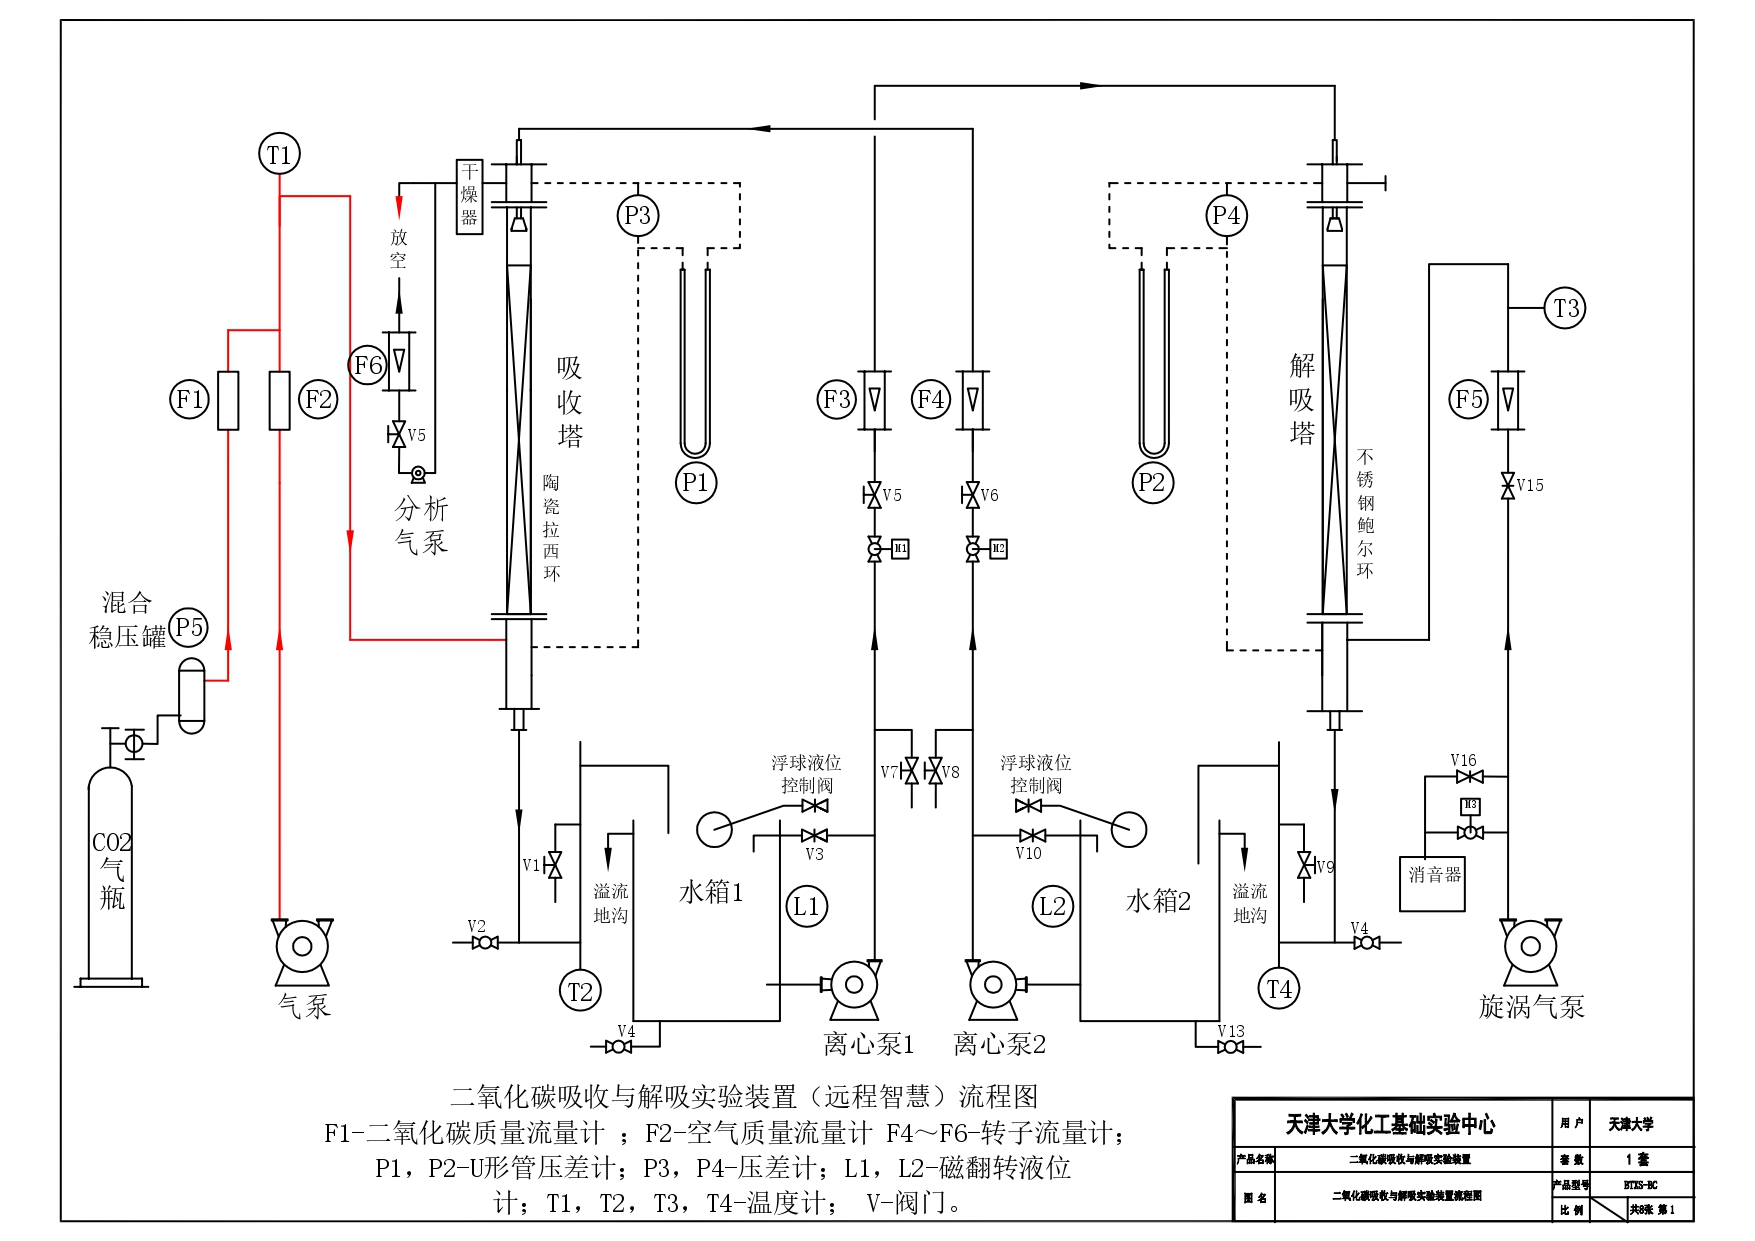
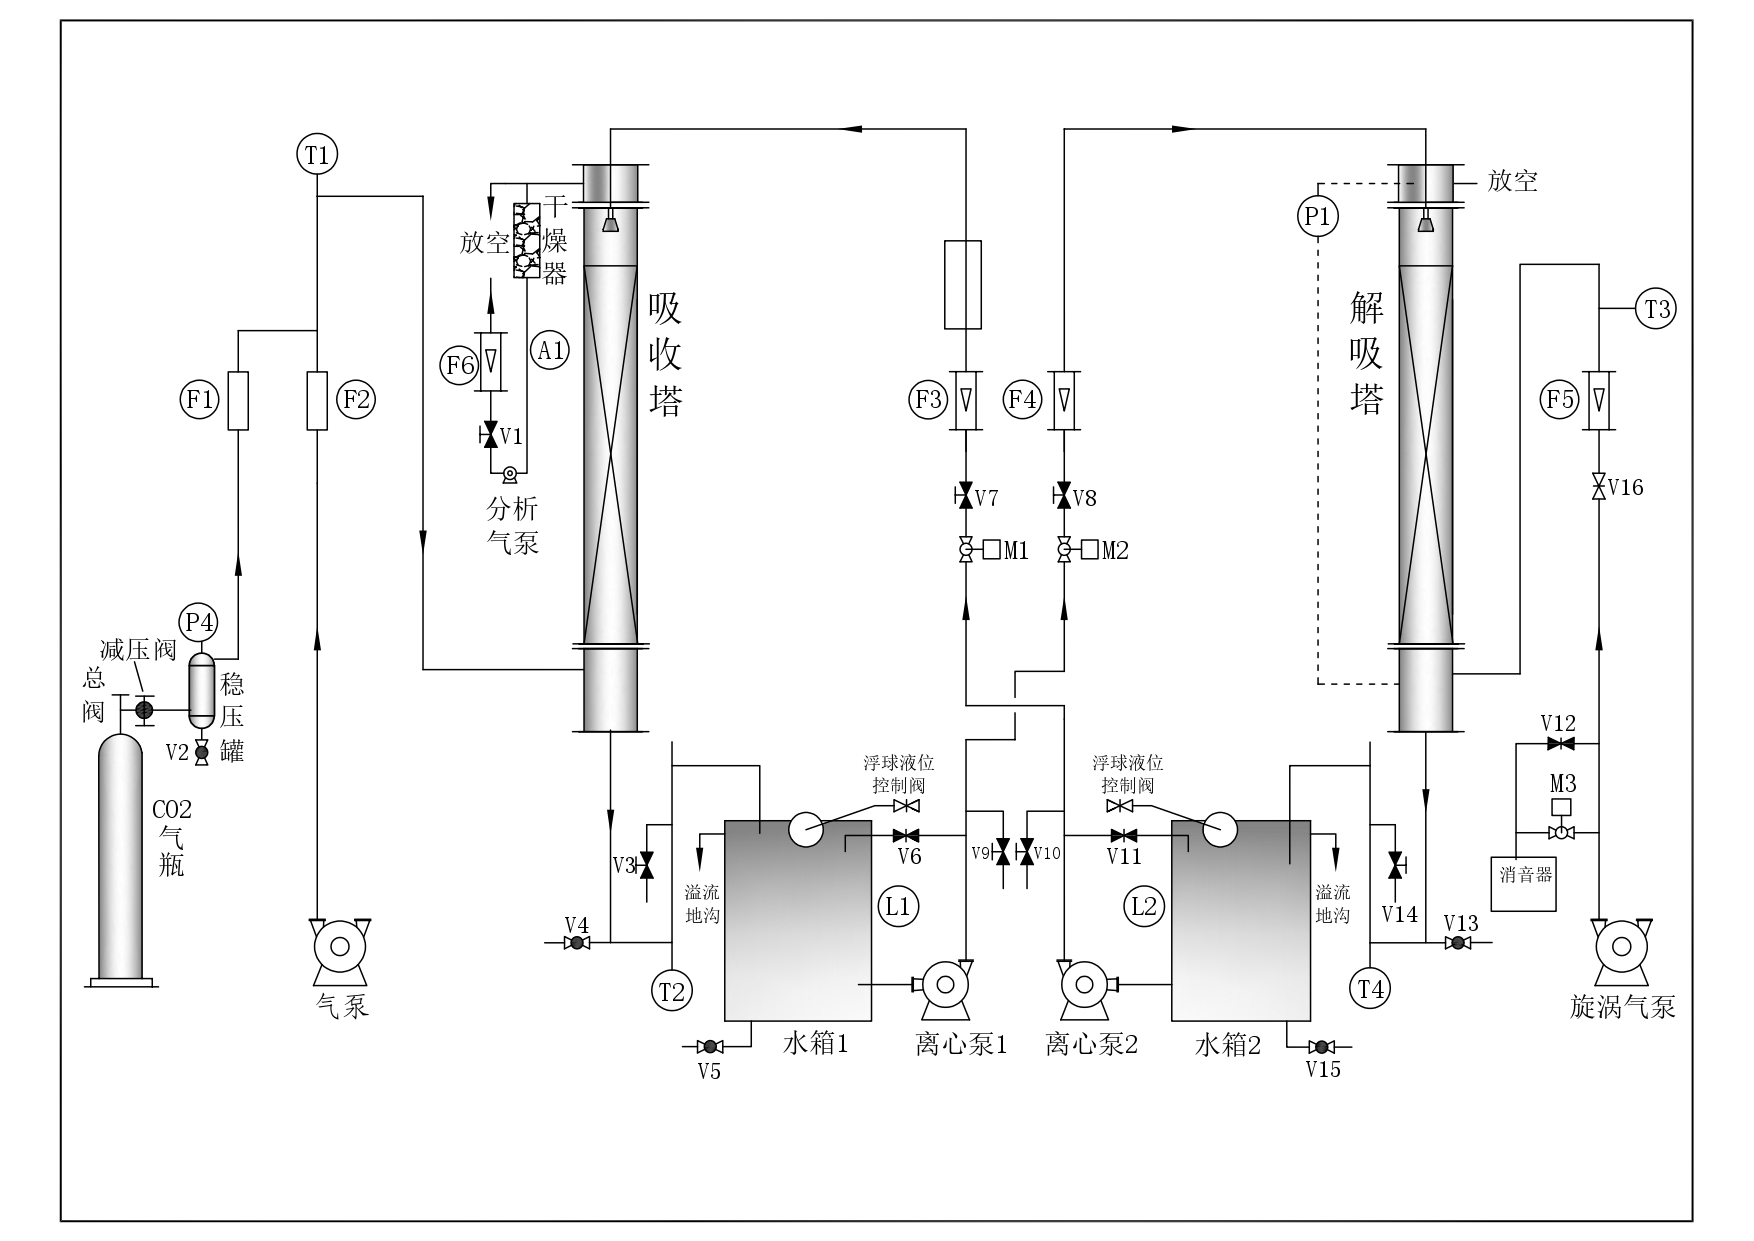
22/3/17_alpha_test

diff --git a/chemistry-client/src/components/absorptionDesorption.vue b/chemistry-client/src/components/absorptionDesorption.vue
@@ -14,7 +14,7 @@
                         <el-button type="primary" @click="updateOption(key)" :disabled="(value.haveSwitch && !value.open) || releaseDisabled">修改</el-button>
                     </div>
                     <div v-if="value.haveSwitch">
-                        <el-switch v-model.lazy="value.open" active-text="打开" inactive-text="关闭" @change="updateSwitch(key)" :disabled="releaseDisabled"></el-switch>
+                        <el-switch v-model.lazy="switchBuffer" active-text="打开" inactive-text="关闭" @change="updateSwitch(key)" :disabled="releaseDisabled"></el-switch>
                     </div>
                 <i :style="{color:switchColor}" style="padding-left: 5px;font-size:30px;cursor:pointer;}" class="el-icon-s-tools" slot="reference"></i>
                 </el-popover>
@@ -72,7 +72,7 @@ export default {
     data(){
         return{
             ticketId: 1,
-            endTime: "12:56",
+            endTime: "---",
             snEndTime: [""],
             params_show:{ //显示的数据
                 'f3': '---',
@@ -236,6 +236,11 @@ export default {
                             message: "登录已过期",
                             type: 'error'
                         })
+                    }else if (res.status === 401){
+                        this.$message({
+                            message: "实验已结束",
+                            type: 'error'
+                        })
                     }else{
                         this.$message({
                             message: "未知错误" + res.status,
@@ -282,6 +287,11 @@ export default {
                     if (res.status === 402){
                         this.$message({
                             message: "登录已过期",
+                            type: 'error'
+                        })
+                    }else if (res.status === 401){
+                        this.$message({
+                            message: "实验已结束",
                             type: 'error'
                         })
                     }else{
@@ -355,6 +365,11 @@ export default {
                             message: "操作权已被占用",
                             type: 'error'
                         })
+                    }else if (res.status === 401){
+                        this.$message({
+                            message: "实验已结束",
+                            type: 'error'
+                        })
                     }else if (res.status === 402){
                         this.$message({
                             message: "登录已过期",
@@ -390,7 +405,6 @@ export default {
                         Authorization: 'Bearer  ' + localStorage.getItem("token") 
                     }
                 }).then(res => res.json()).then(res => {
-                    console.log(res);
                     if(res.success){
                         this.$message({
                             message: "已释放操作权",
@@ -403,6 +417,14 @@ export default {
                         if (res.status === 500){
                             this.$message({
                                 message: "登录已过期",
+                                type: 'error'
+                            })
+                        }else if (res.status === 401){
+                            this.nowController = "";
+                            this.applyDisabled = false;
+                            this.releaseDisabled = true;
+                            this.$message({
+                                message: "实验已结束",
                                 type: 'error'
                             })
                         }else{
@@ -457,6 +479,11 @@ export default {
                             message: "输入值非法",
                             type: 'error'
                         })
+                    }else if (res.status === 401){
+                        this.$message({
+                            message: "实验已结束",
+                            type: 'error'
+                        })
                     }else{
                         this.$message({
                             message: "未知错误" + res.status,
@@ -477,7 +504,7 @@ export default {
             let name = index + "";
             let requestData = {
                 paramName: name.toUpperCase(),
-                paramValue: Number(!this.switchBuffer)
+                paramValue: Number(this.switchBuffer)
             }
 
             fetch(this.URL + 'api/experiementing/' + this.ticketId + 
@@ -501,6 +528,11 @@ export default {
                     if (res.status === 402){
                         this.$message({
                             message: "登录已过期",
+                            type: 'error'
+                        })
+                    }else if (res.status === 401){
+                        this.$message({
+                            message: "实验已结束",
                             type: 'error'
                         })
                     }else{
@@ -536,6 +568,11 @@ export default {
                             message: "登录已过期",
                             type: 'error'
                         })
+                    }else if (res.status === 401){
+                        this.$message({
+                            message: "实验已结束",
+                            type: 'error'
+                        })
                     }else{
                         this.$message({
                             message: "未知错误" + res.status,
@@ -561,9 +598,10 @@ export default {
                 }
             }).then(res => res.json()).then(res => {
                 if(res.success){
-                    console.log(res);
+                    console.log(res.data.param);
                     let newData = res.data.param;
                     let nowToken = res.data.token;
+                    
 
                     //更新当前操作者状态
                     this.nowController = nowToken;
@@ -575,7 +613,21 @@ export default {
                         this.releaseDisabled = true;
                     }
 
+
                     // 更新数据
+                    this.params_show["f3"] = newData["f3"];
+                    this.params_show["f4"] = newData["f4"];
+                    this.params_show["t1"] = newData["t1"];
+                    this.params_show["t2"] = newData["t2"];
+                    this.params_show["t3"] = newData["t3"];
+                    this.params_show["p1"] = newData["p1"];
+                    this.params_show["p2"] = newData["p2"];
+                    this.params_show["p3"] = newData["p3"];
+                    this.params_show["p4"] = newData["p4"];
+                    this.params_show["p5"] = newData["p5"];
+                    this.params_show["l1"] = newData["l1"];
+                    this.params_show["l2"] = newData["l2"];
+
                     this.options_show["f1"].data = newData["f1"];
                     this.options_show['fxbkg'].open = Boolean(newData['fxbkg']);
                 }else{
@@ -584,6 +636,13 @@ export default {
                             message: "登录已过期",
                             type: 'error'
                         })
+                    }else if (res.status === 401){
+                        this.$message({
+                            message: "实验已结束",
+                            type: 'error'
+                        })
+                        clearInterval(this.dataTimer);
+                        clearInterval(this.msgAndTimeTimer);
                     }else{
                         this.$message({
                             message: "未知错误" + res.status,
@@ -618,6 +677,11 @@ export default {
                     if (res.status === 402){
                         this.$message({
                             message: "登录已过期",
+                            type: 'error'
+                        })
+                    }else if (res.status === 401){
+                        this.$message({
+                            message: "实验已结束",
                             type: 'error'
                         })
                     }else{

diff --git a/chemistry-admin/src/components/plan_edit.vue b/chemistry-admin/src/components/plan_edit.vue
@@ -8,10 +8,12 @@
         <div class="table_block">
              <el-form ref="addForm" :model="addForm" label-position="top" label-width="100px" :rules="addRules" v-loading="isLoading" element-loading-text="生成预约票中，请耐心等待...">
                 <el-form-item id="devices_choice" label="选择设备" prop="devices">
-                    <el-checkbox :indeterminate="isIndeterminate" v-model="checkAll" @change="checkAllChange">全选</el-checkbox>
-                    <el-checkbox-group v-model="addForm.devices" @change="deviceChange">
-                        <el-checkbox v-for="item in deviceData" :label="item.id" :key="item.id">{{types[item.type]}}: {{item.name}}</el-checkbox>
-                    </el-checkbox-group>
+                    <div id="devices_checkbox">
+                        <el-checkbox :indeterminate="isIndeterminate" v-model="checkAll" @change="checkAllChange">全选</el-checkbox>
+                        <el-checkbox-group v-model="addForm.devices" @change="deviceChange">
+                            <el-checkbox v-for="item in deviceData" :label="item.id" :key="item.id">{{types[item.type]}}: {{item.name}}</el-checkbox>
+                        </el-checkbox-group>
+                    </div>
                 </el-form-item>
                 <el-form-item label="选择时间与计划" prop="date">
                     <el-date-picker v-model="addForm.date" type="daterange" range-separator="至" start-placeholder="开始日期" end-placeholder="结束日期"></el-date-picker>
@@ -134,22 +136,22 @@ export default {
         // 提交 
         submit(formName){
             let that = this;
-
-            //禁用按钮
-            this.isDisabled = true;
-            this.isLoading = true;
-
             let data = this.addForm;
-            let requestData = {
-                startDate: this.formateDate(data.date[0]),
-                endDate: this.formateDate(data.date[1]),
-                resourceIds: data.devices,
-                dailyOpenPlanIds: this.plans[0].dailyPlans
-            }
 
             //判断合法输入
             this.$refs[formName].validate((valid) => {
                 if (valid) { 
+                    //禁用按钮
+                    this.isDisabled = true;
+                    this.isLoading = true;
+
+                    let requestData = {
+                        startDate: this.formateDate(data.date[0]),
+                        endDate: this.formateDate(data.date[1]),
+                        resourceIds: data.devices,
+                        dailyOpenPlanIds: this.plans[0].dailyPlans
+                    }
+
                     fetch(this.URL + "api/tickets/by-weeks", {
                         method: 'POST',
                         headers: {
@@ -198,7 +200,6 @@ export default {
                         that.isDisabled = false;
                         //停止加载
                         that.isLoading = false;
-console.log(err);
                         this.$message({
                             message: "加载失败，服务器出错" + err,
                             type: 'error'
@@ -319,15 +320,15 @@ div {
 
 
 .table_block{
-  max-height: 80%;
+  max-height: 90%;
 }
 
 .add_footer{
     padding-top: 10px;
 }
 
-#devices_choice{
-    height: 120px;
+#devices_checkbox{
+    height: 80px;
     overflow: auto;
 }
 </style>

diff --git a/chemistry-client/src/components/mine.vue b/chemistry-client/src/components/mine.vue
@@ -168,7 +168,6 @@ export default {
         openNote(scope){
             let index = scope.$index;
 			let id = this.exData[index].ticketId;
-            this.noteVisible = true;
 
 			fetch(this.URL + "api/records/" + id, {
                 method: 'GET',
@@ -177,6 +176,7 @@ export default {
                 }
             }).then(res => res.json()).then(res => {
                 if (res.success){
+                    this.noteVisible = true;
                     let data = res.data;
                     let result = "";
 
@@ -205,6 +205,12 @@ export default {
                     }else if(res.status === 401){
                         this.$message({
                             message: "没有相关权限",
+                            type: 'error'
+                        })
+                    }else if(res.status === 403){
+                        this.noteVisible = false;
+                        this.$message({
+                            message: "未到实验结束时间",
                             type: 'error'
                         })
                     }else{
@@ -293,7 +299,7 @@ export default {
                 return date1.getTime() - date2.getTime() < 0;
             }
         },
-        // 学生：获取实验数据
+        // 学生：获取我的实验数据
         getExData(){
             let date = new Date(); // 今天的日期
             let today = this.formateDate(date);
@@ -415,7 +421,7 @@ export default {
                 let result = [];
 
                 for (let i = 0 ; i < data.length ; i++){
-                    if (data[i].school === "天津学"){
+                    if (data[i].school === "天津大学" || data[i].school === "天大"){
                         result.push(data[i]);
                     }
                 }
@@ -648,6 +654,11 @@ export default {
                         }else if(res.status === 401){
                             this.$message({
                                 message: "没有相关权限",
+                                type: 'error'
+                            })
+                        }else if(res.status === 403){
+                            this.$message({
+                                message: "未到实验结束时间",
                                 type: 'error'
                             })
                         }else{

diff --git a/chemistry-admin/src/components/plan.vue b/chemistry-admin/src/components/plan.vue
@@ -582,7 +582,7 @@ export default {
                     let status = new Array(7).fill(2);
                     let devices = new Array(7);
                     for (let i = 0 ; i < 7 ; i++){ // 用fill只创建了一个对象
-                        devices[i] = new Array();
+                        devices[i] = new Set(); // set记录，防止有重复票
                     }
 
                     temp[nowString] = {
@@ -592,20 +592,28 @@ export default {
                     
                 }
 
+
                 // 遍历设备
                 for (let i = 0 ; i < result.length ; i++){
                     let subresult = result[i];
-
                     for (let j = 0 ; j < subresult.length ; j++){
-                        temp[subresult[j].date].devices[subresult[j].sn].push(subresult[j].resourceId);
+                        temp[subresult[j].date].devices[subresult[j].sn].add(subresult[j].resourceId);
 
                         // 全部开放
-                        if (temp[subresult[j].date].devices[subresult[j].sn].length === this.devices.length){
+                        if (temp[subresult[j].date].devices[subresult[j].sn].size === this.devices.length){
                             temp[subresult[j].date].status[subresult[j].sn] = 0;
                         }else{
                             // 部分开放
                             temp[subresult[j].date].status[subresult[j].sn] = 1;
                         }
+                    }
+                    
+                }
+                
+                // 将集合转回数组，便于渲染表单
+                for (let i in temp){
+                    for (let j = 0 ; j < temp[i].devices.length ; j++){
+                        temp[i].devices[j] = Array.from( temp[i].devices[j]);
                     }
                 }
 

diff --git a/chemistry-admin/src/components/account.vue b/chemistry-admin/src/components/account.vue
@@ -438,8 +438,10 @@ export default {
 						that.isLoading = false;
 
 						if (res.success){
-							// 刷新数据
-							this.getData(this.nowType, this.nowPage);
+							// 显示为当前类型才刷新数据
+							if (this.nowType === requestData.type){
+								this.getData(this.nowType, this.nowPage);
+							}
 						
 							this.$message({
 								message: "新增成功",
@@ -505,6 +507,7 @@ export default {
 			let index = scope.$index;
 			let form = JSON.parse(JSON.stringify(this.accountData[index]));
 			form.confirm = ""; // 先添加，在赋值
+			form.password = ""; //清空密码
 			this.editForm = form;
 			this.editFormVisible = true;
 		},

diff --git a/chemistry-client/src/components/flowProcess.vue b/chemistry-client/src/components/flowProcess.vue
@@ -1,7 +1,7 @@
 <template>
     <div id="flowProcess">
       	<div class="img_block">
-            <img src="../assets/flowProcess.png" id="ex_img" ref="img" @load="setVideoHeight"/>
+            <img src="../assets/flowProcess.jpg" id="ex_img" ref="img" @load="setVideoHeight"/>
             <!-- 显示数据 -->
             <span class="param_show" v-for="(value, key) in params_show" :key="key.id" :id="key">{{value}}</span>
             <span class="control_show" v-for="(value, key) in options_show" :key="key" :id="key">
